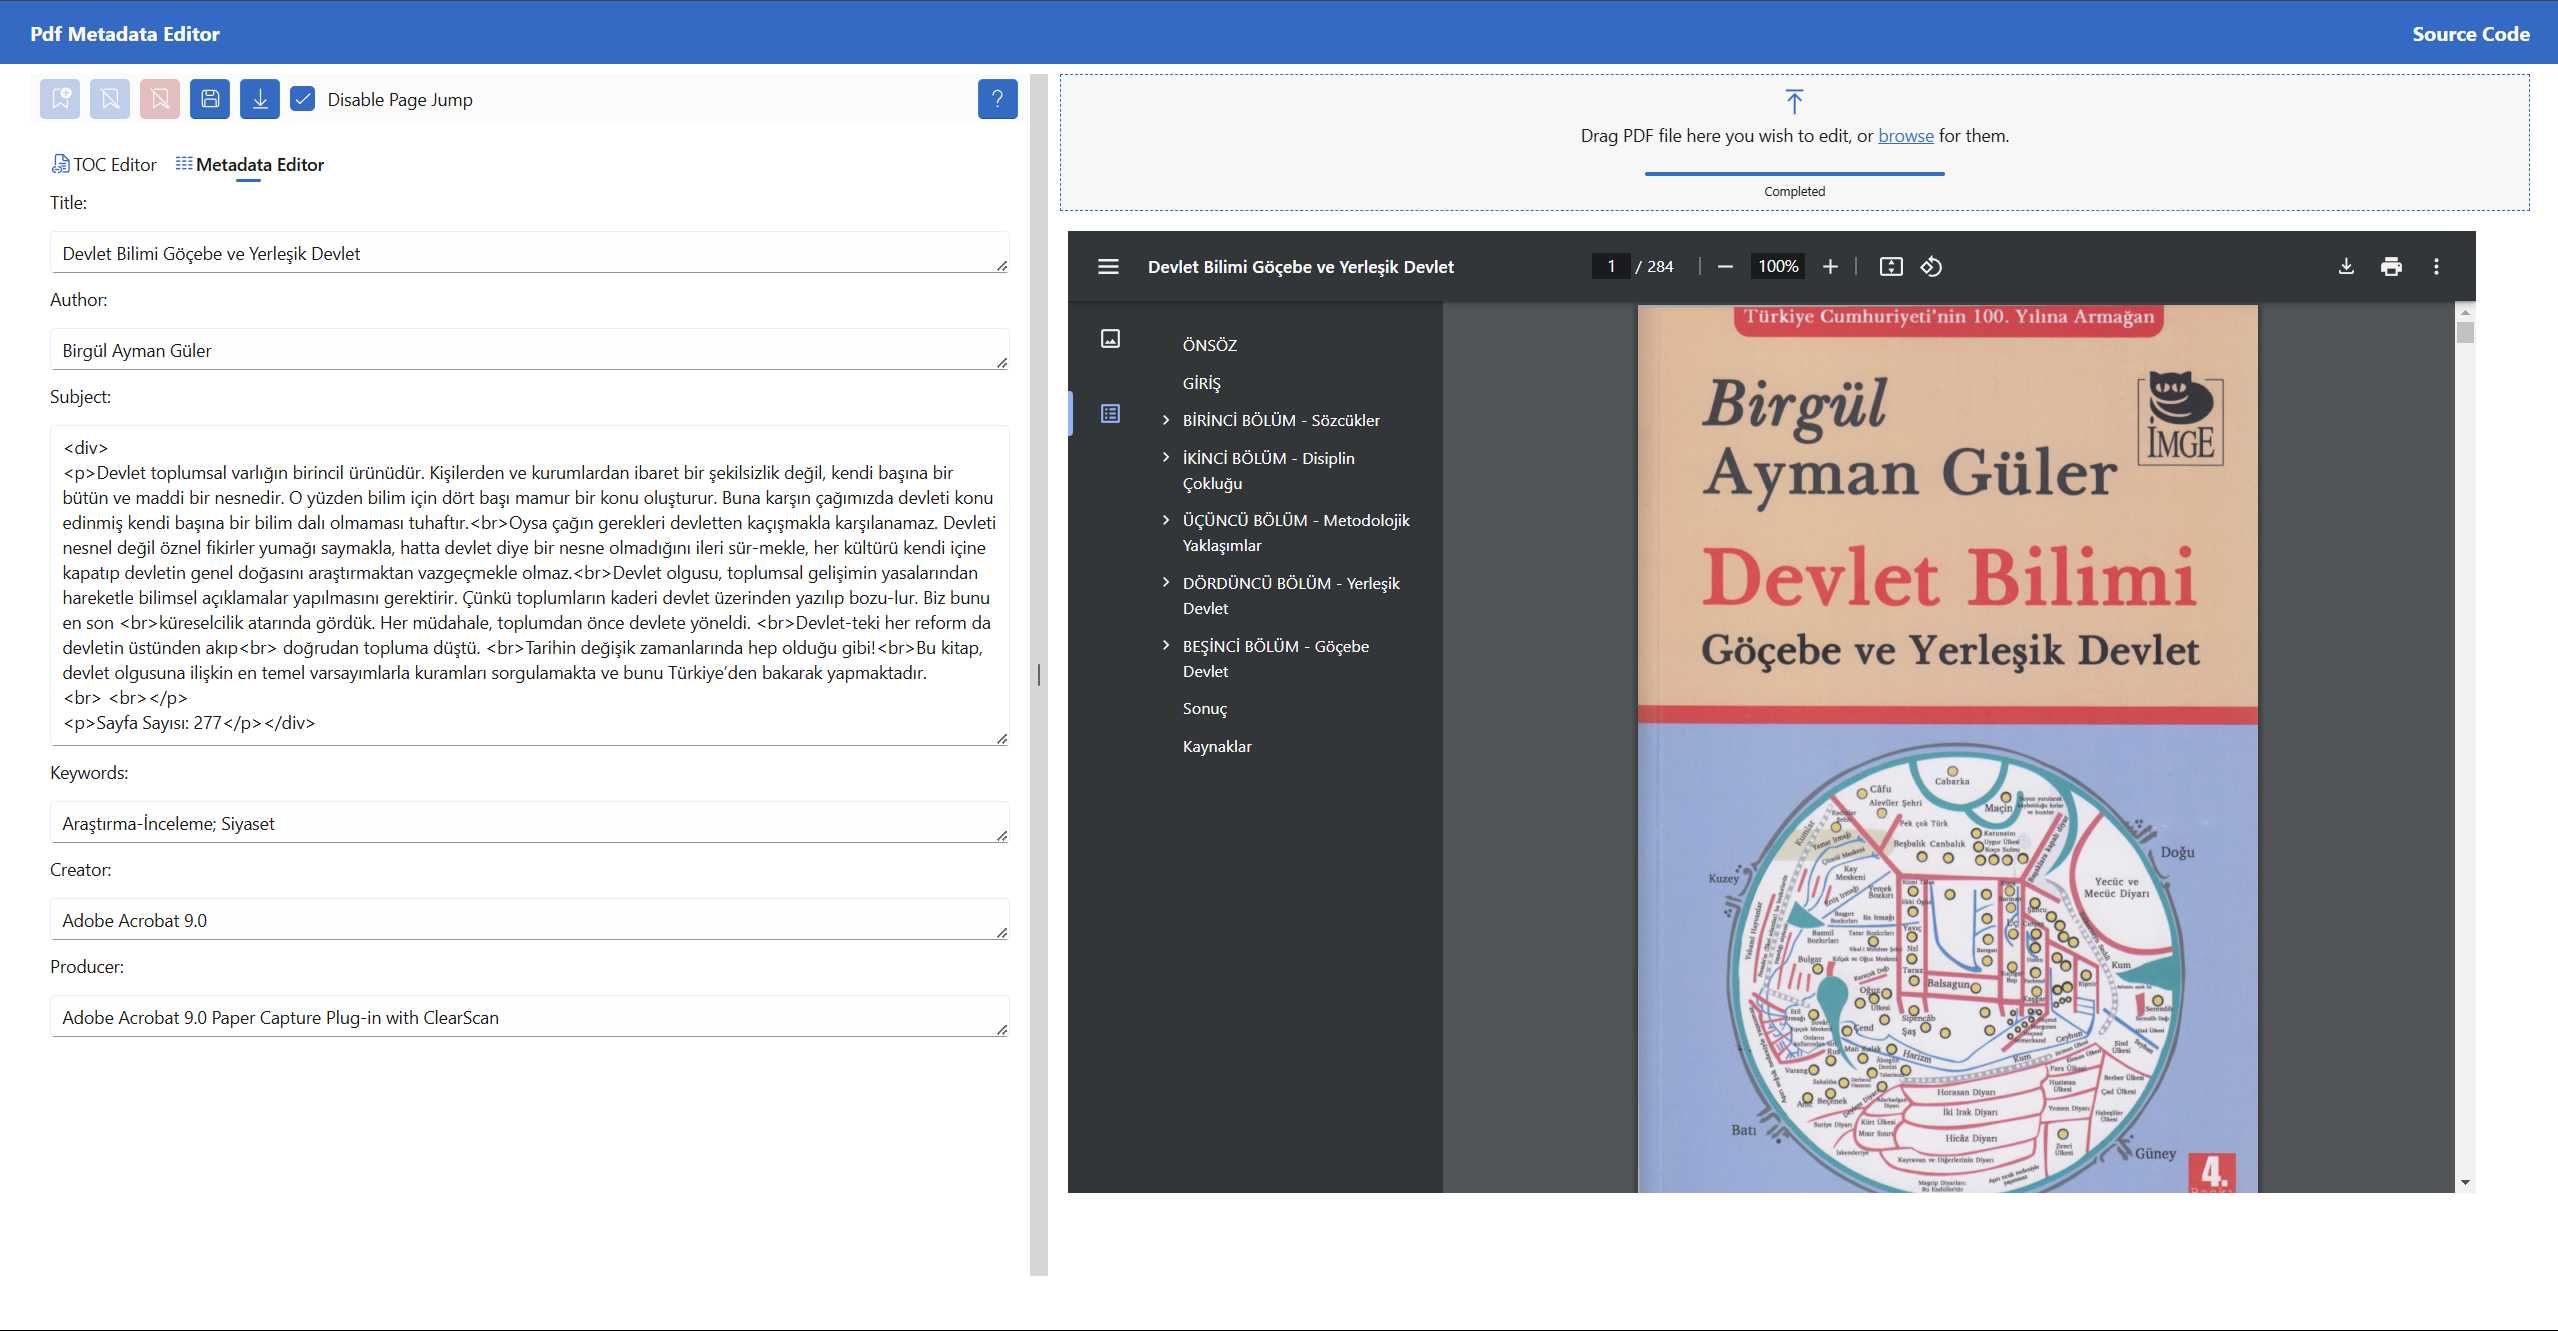
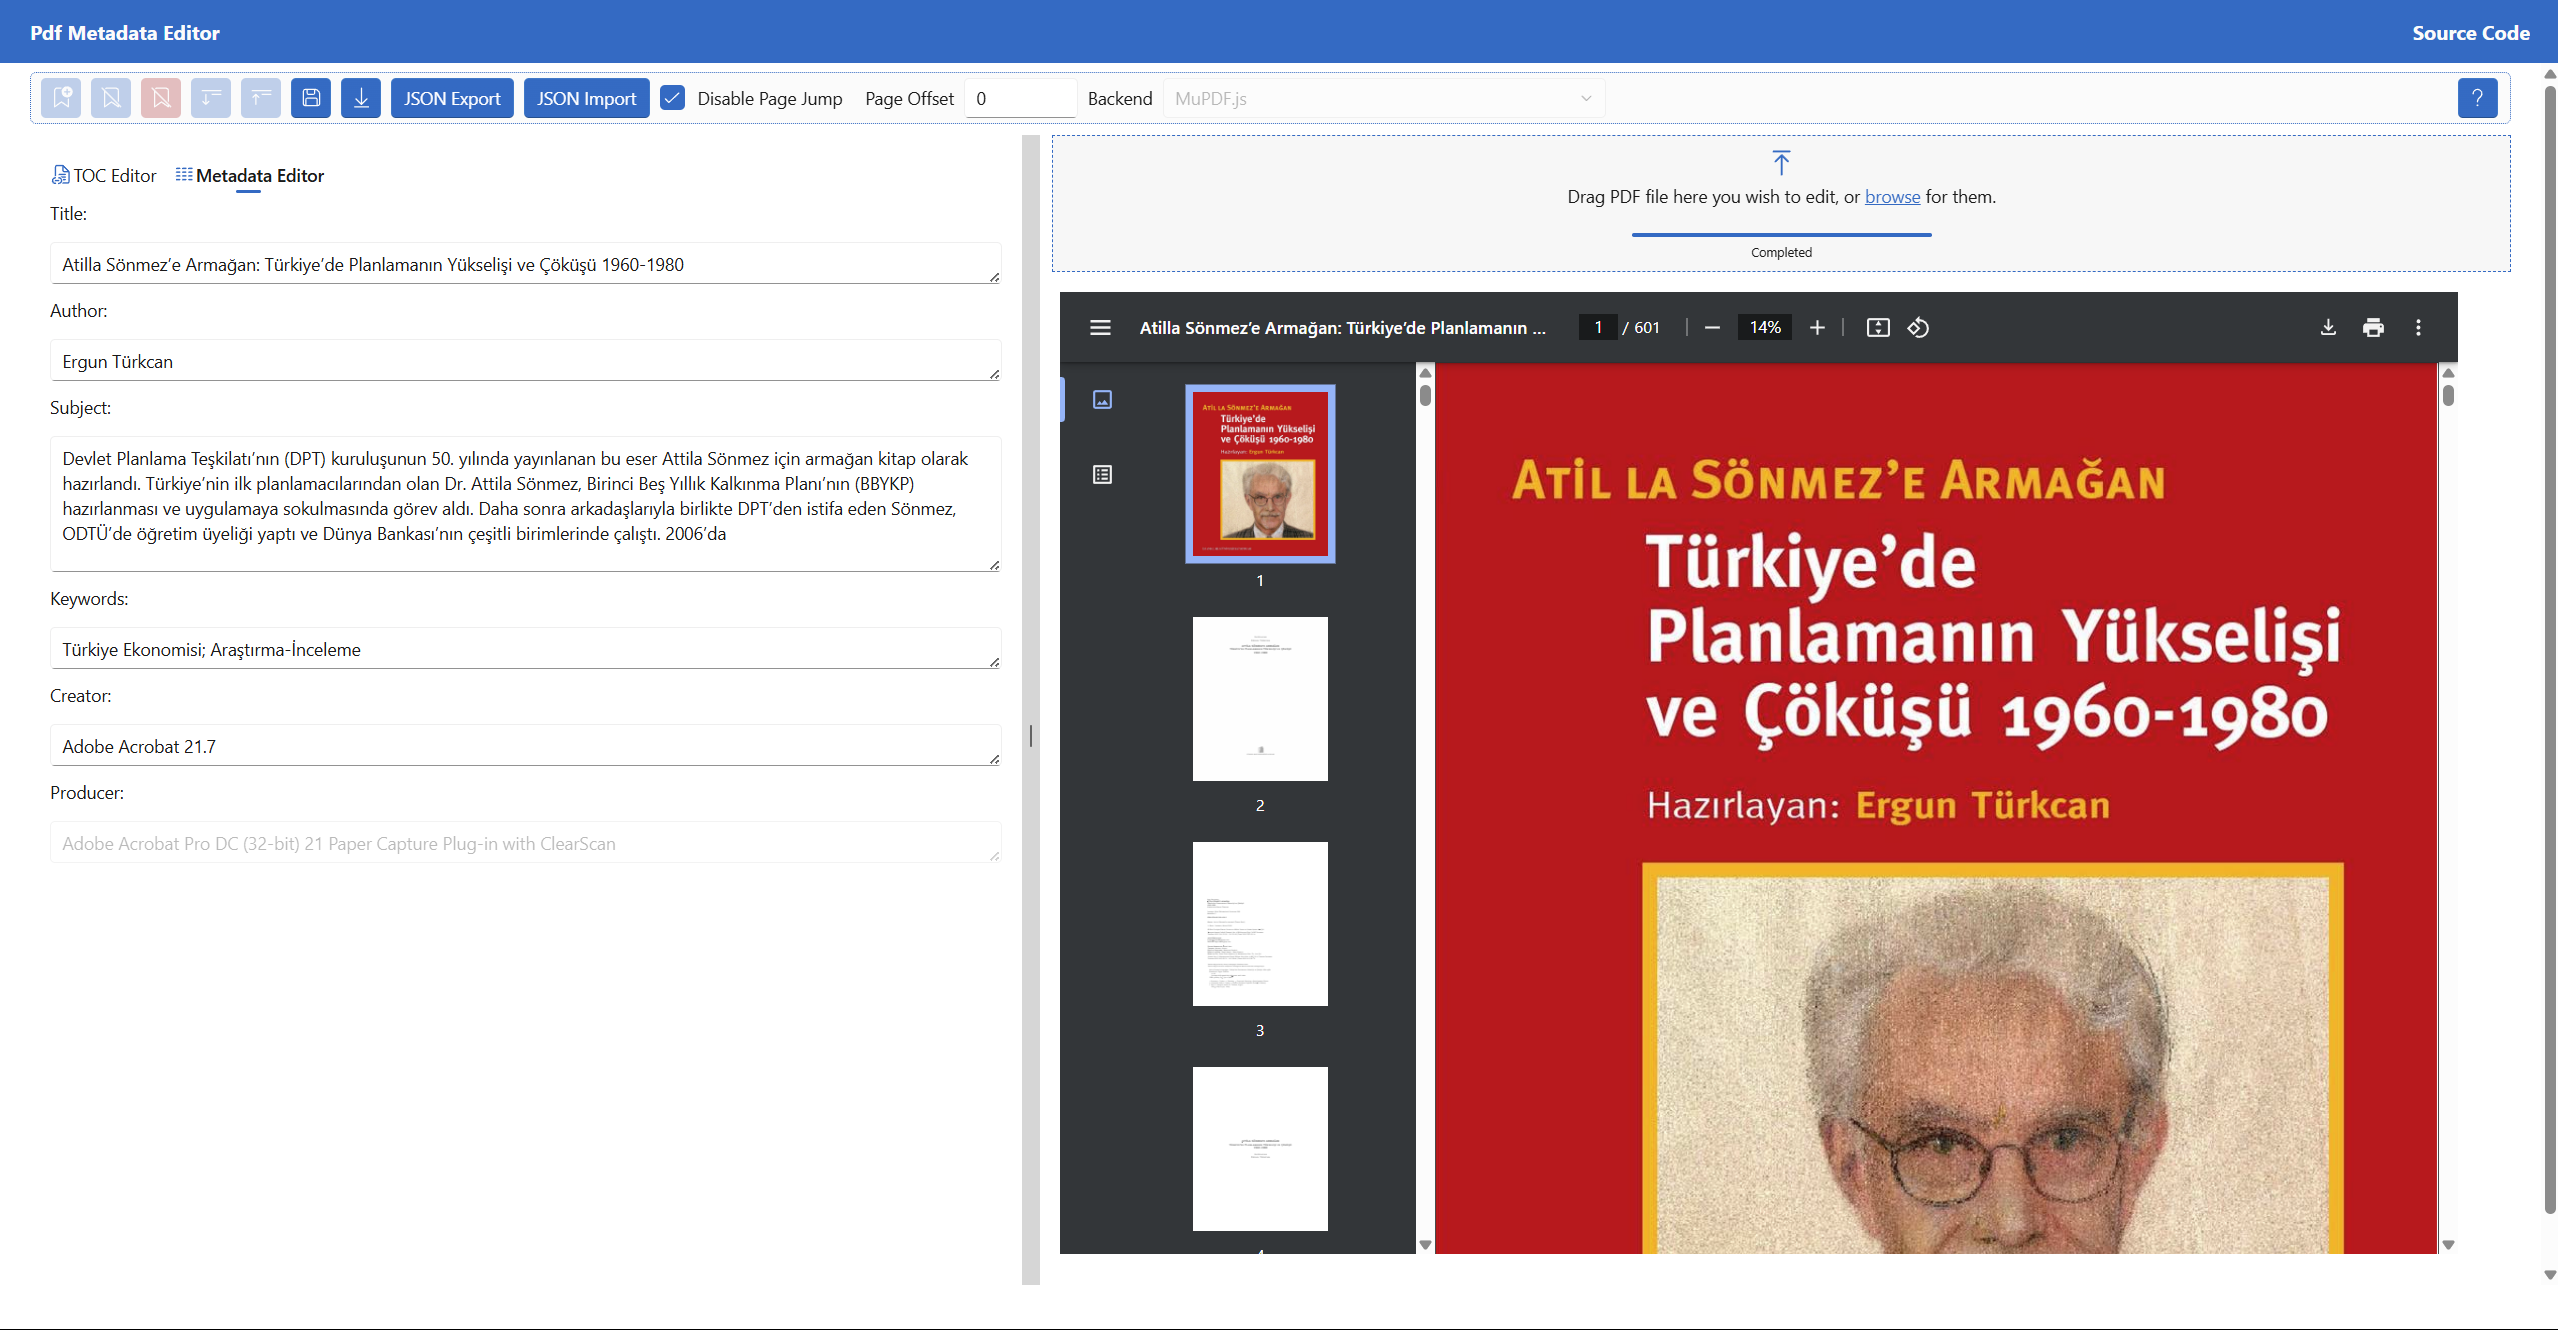
+ Updated screenshots at README + Put some placeholders when no pdf files is opened

diff --git a/PdfMetadataEditor/PdfMetadataEditor/Interops/MupdfDoc.cs b/PdfMetadataEditor/PdfMetadataEditor/Interops/MupdfDoc.cs
@@ -42,10 +42,6 @@ public class MupdfDoc : IAsyncDisposable
     public void SetOutline(List<MuOutlineItem> outline)
     {
         ClearOutline();
-        //foreach (var item in outline)
-        //{
-        //    int insertResult = outlineIterator.Invoke<int>("insert", item);
-        //}
         var stack = new Stack<(MuOutlineItem, int)>();
 
         foreach (var item in outline)
@@ -57,7 +53,6 @@ public class MupdfDoc : IAsyncDisposable
         {
             var (currentItem, itemDepth) = stack.Pop();
 
-            // Adjust depth before inserting
             while (currentDepth < itemDepth)
             {
                 outlineIterator.InvokeVoid("down");

diff --git a/README.md b/README.md
@@ -19,6 +19,7 @@ Available at: https://anezih.github.io/PdfMetadataEditor
 
 # Screenshots
 
+![PdfMetadataEditor](res/editor-empty.png)
 ![Outline Editor](res/toc-editor.png)
 ![Metadata Editor](res/metadata-editor.png)
 
